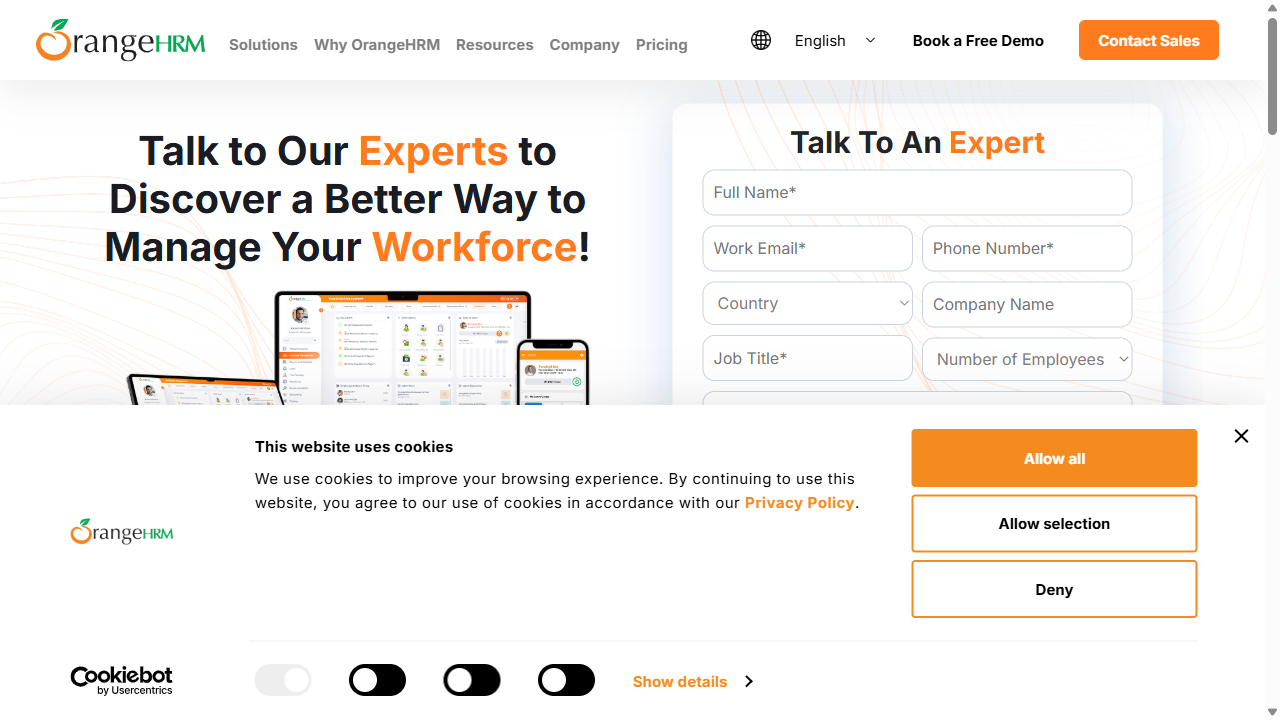
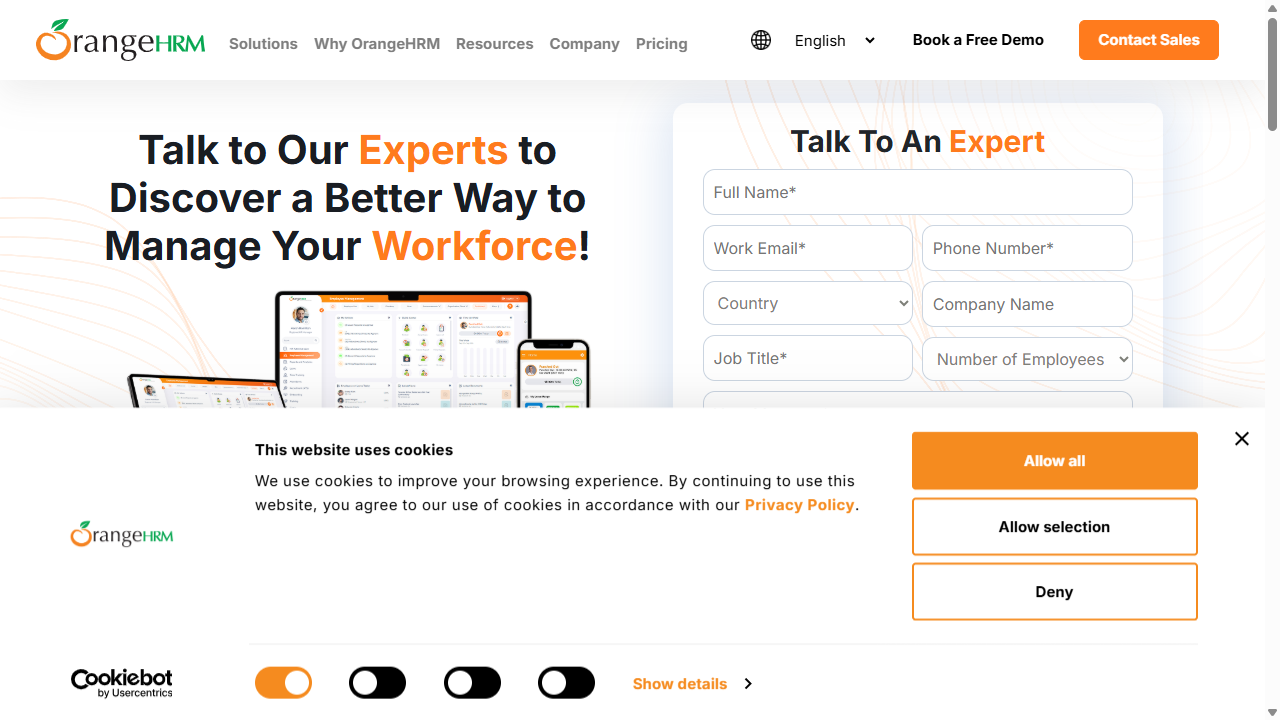
More on Pages/popups/windows/MuitpleWindows

diff --git a/src/MutlipleWindowusingbrowserContext.ts b/src/MutlipleWindowusingbrowserContext.ts
@@ -1,0 +1,35 @@
+import{Browser, chromium, Page,test} from '@playwright/test';
+
+(async()=>{
+     let browser:Browser=await chromium.launch({
+        headless:false,
+        channel:"chrome"
+     });
+    let BrwCtx = await browser.newContext();
+    const page = await BrwCtx.newPage();
+
+     page.on('framenavigated', async() => {
+        let accetCookiesButton = page.locator('#CybotCookiebotDialogBodyLevelButtonLevelOptinAllowAll');
+        if(await accetCookiesButton.isVisible())
+        {
+            accetCookiesButton.click();
+        }
+    });
+
+    await page.goto('https://www.orangehrm.com/en/contact-sales/');
+    let ornageHRMtitle=await page.title();
+    await page.locator(`//a[contains(@href,'mycompany')]`).click();
+    await page.locator(`//a[contains(@href,'x.com')]`).click();
+    await page.locator(` //a[contains(@href,'instagram')]`).click();
+    await page.locator(`//a[contains(@href,'facebook')]`).click();
+
+   let allPages:Page[]= BrwCtx.pages();
+   console.log(('Total Number of Pages : '+allPages.length));
+   
+   for(let pg of allPages){
+      console.log(await pg.title());
+      if(await pg.title()!==ornageHRMtitle){
+         await pg.close();
+      }
+   }
+})();

diff --git a/src/newWindowsMutlipleWithoutLoopsExample2.ts b/src/newWindowsMutlipleWithoutLoopsExample2.ts
@@ -1,0 +1,39 @@
+import { Browser,chromium,Page,Locator } from "@playwright/test";
+
+let page :Page;
+//IIFE
+(async() => {
+    let browser : Browser = await chromium.launch({
+        headless : false,
+        channel : 'chrome'
+    });
+   
+
+    page = await browser.newPage();
+    await page.goto('https://www.orangehrm.com/en/contact-sales/');
+    //scrollIntoViewIfNeeded
+    page.on('framenavigated', async() => {
+        let accetCookiesButton = page.locator('#CybotCookiebotDialogBodyLevelButtonLevelOptinAllowAll');
+        if(await accetCookiesButton.isVisible())
+        {
+            accetCookiesButton.click();
+        }
+    });
+      
+     let [newTab3]= await Promise.all([
+
+         page.waitForEvent('popup'),
+         page.locator(` //a[contains(@href,'instagram')]`).click(),
+
+    ]);
+    await page.waitForTimeout(4000);
+    console.log(await newTab3.title());
+    console.log(newTab3.url());
+
+// const [newTab] = await Promise.all([
+//     await page.waitForEvent('popup'),
+//     page.locator("//a[contains(@href,'youtube.com/user/orangehrm')]").click()
+// ]);
+
+
+})();

diff --git a/src/scrollingExample1.ts b/src/scrollingExample1.ts
@@ -1,0 +1,22 @@
+import { Browser,chromium,Page,Locator } from "@playwright/test";
+
+let page :Page;
+//IIFE
+(async() => {
+    let browser : Browser = await chromium.launch({
+        headless : false,
+        channel : 'chrome'
+    });
+   
+
+    page = await browser.newPage();
+    await page.goto('https://github.com/MallammaHR?tab=repositories');
+   // await page.locator('#CybotCookiebotDialogBodyLevelButtonLevelOptinAllowAll').click();
+
+    await page.evaluate(() => window.scrollTo(0,document.body.scrollHeight));
+    await page.waitForTimeout(3000);
+
+    await page.evaluate(()=>window.scrollTo(document.body.scrollHeight,0));
+
+
+})();

diff --git a/src/screenshortExample2.ts b/src/screenshortExample2.ts
@@ -1,0 +1,24 @@
+import {test,Page,Locator,Browser, chromium} from '@playwright/test';
+
+(async()=>{
+     let browser:Browser=await chromium.launch({
+
+        headless:false,
+        channel:"chrome"
+     });
+
+     let page:Page=await browser.newPage();
+
+     await page.goto('https://www.orangehrm.com/en/contact-sales');
+
+    //  await page.screenshot({path:'one.png'});
+    //  await page.screenshot({path:'fullPage.png',fullPage:true});
+
+        await page.screenshot({
+
+        path : './screenshot/profile.jpeg',
+        type :  'jpeg',
+        quality : 80,//(by deafault 0 to 100)
+        fullPage : false
+    });
+})();

diff --git a/src/newWindowsMutlipleWithoutLoop.ts b/src/newWindowsMutlipleWithoutLoop.ts
@@ -71,5 +71,6 @@ let page :Page;
     //main page 
     console.log("Ttitle of the Main Page  is : "+await page.title());
     console.log("URL of the Main Page  is : " + page.url());
+    await page.close();
    
 })();
